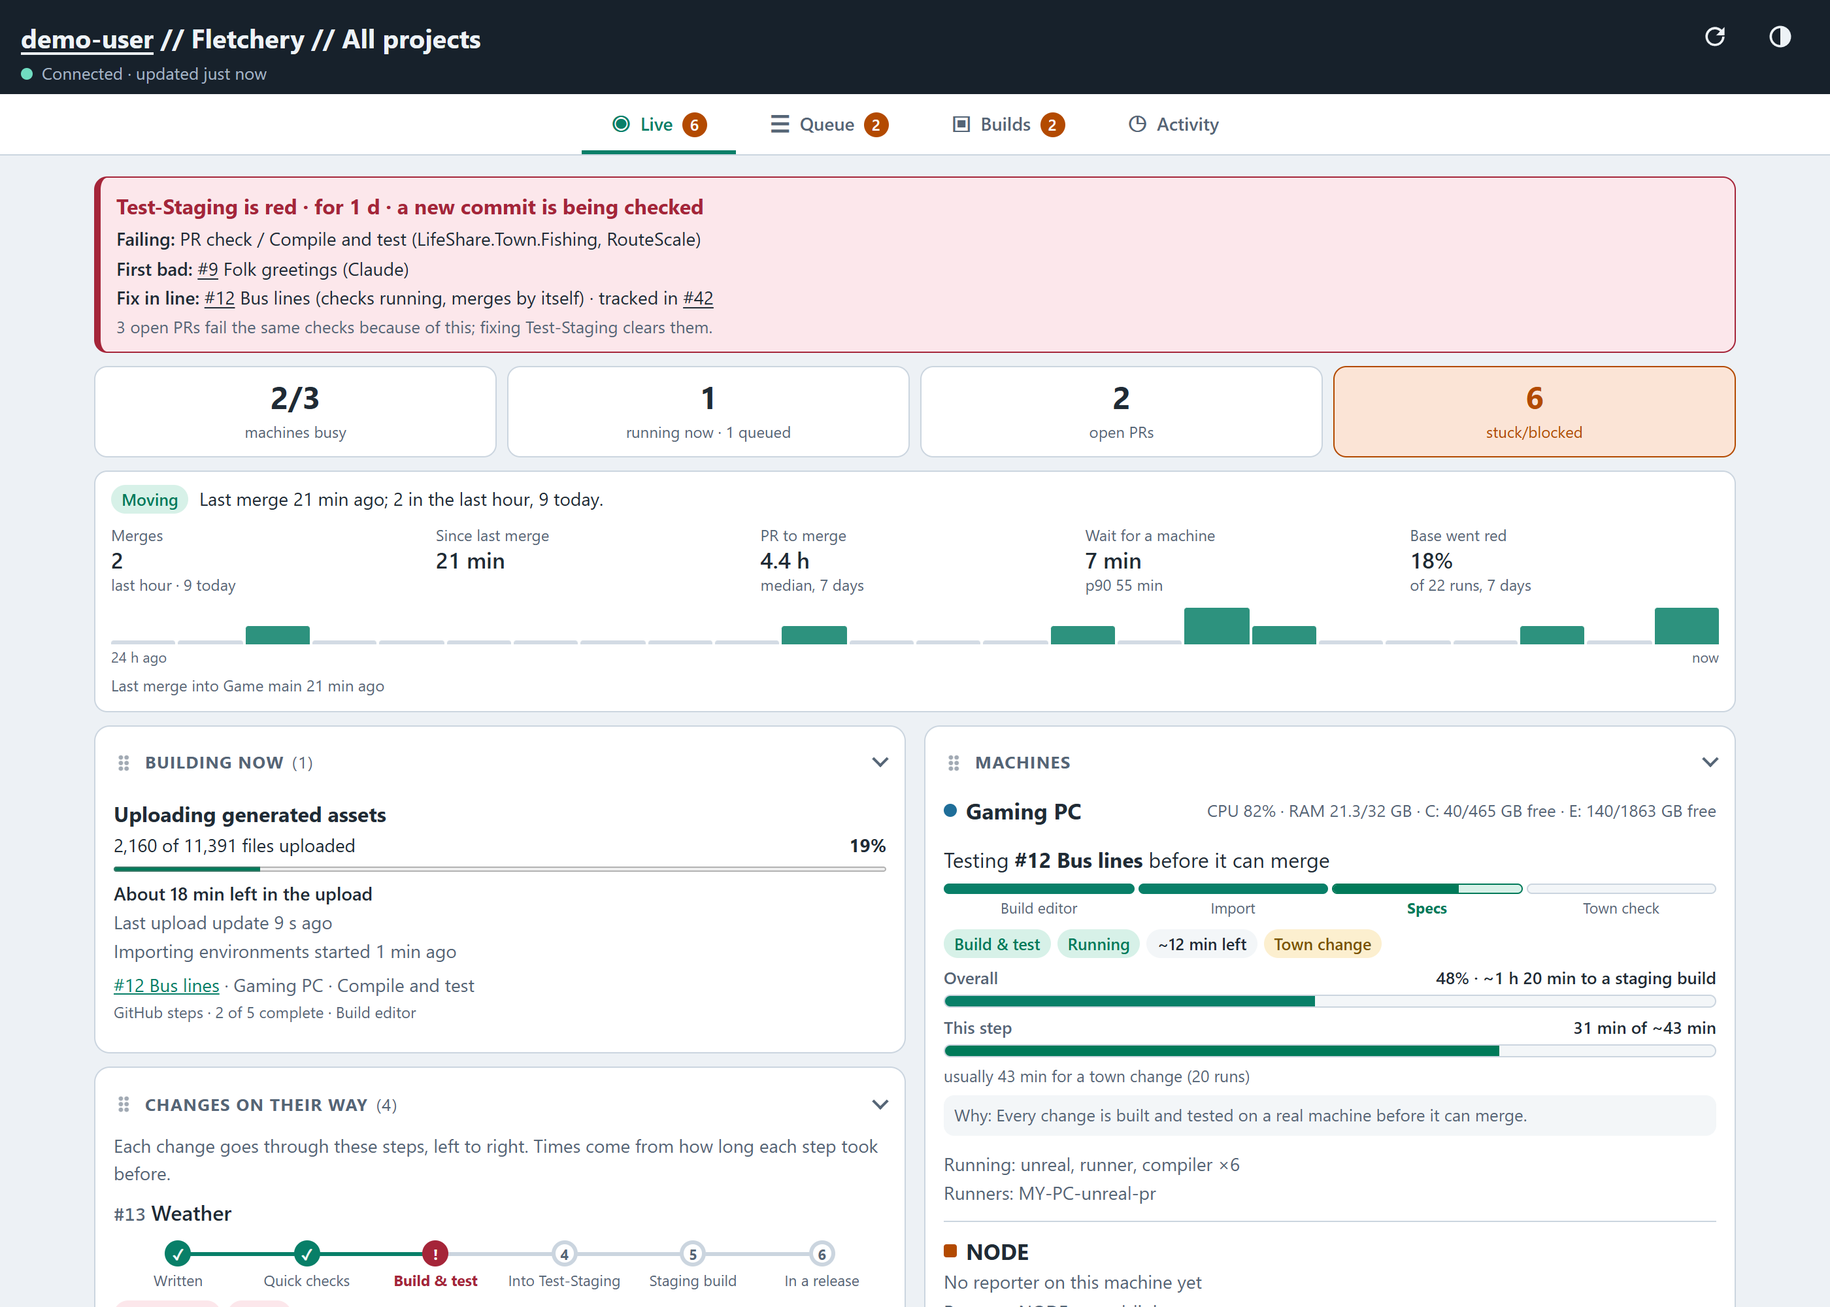
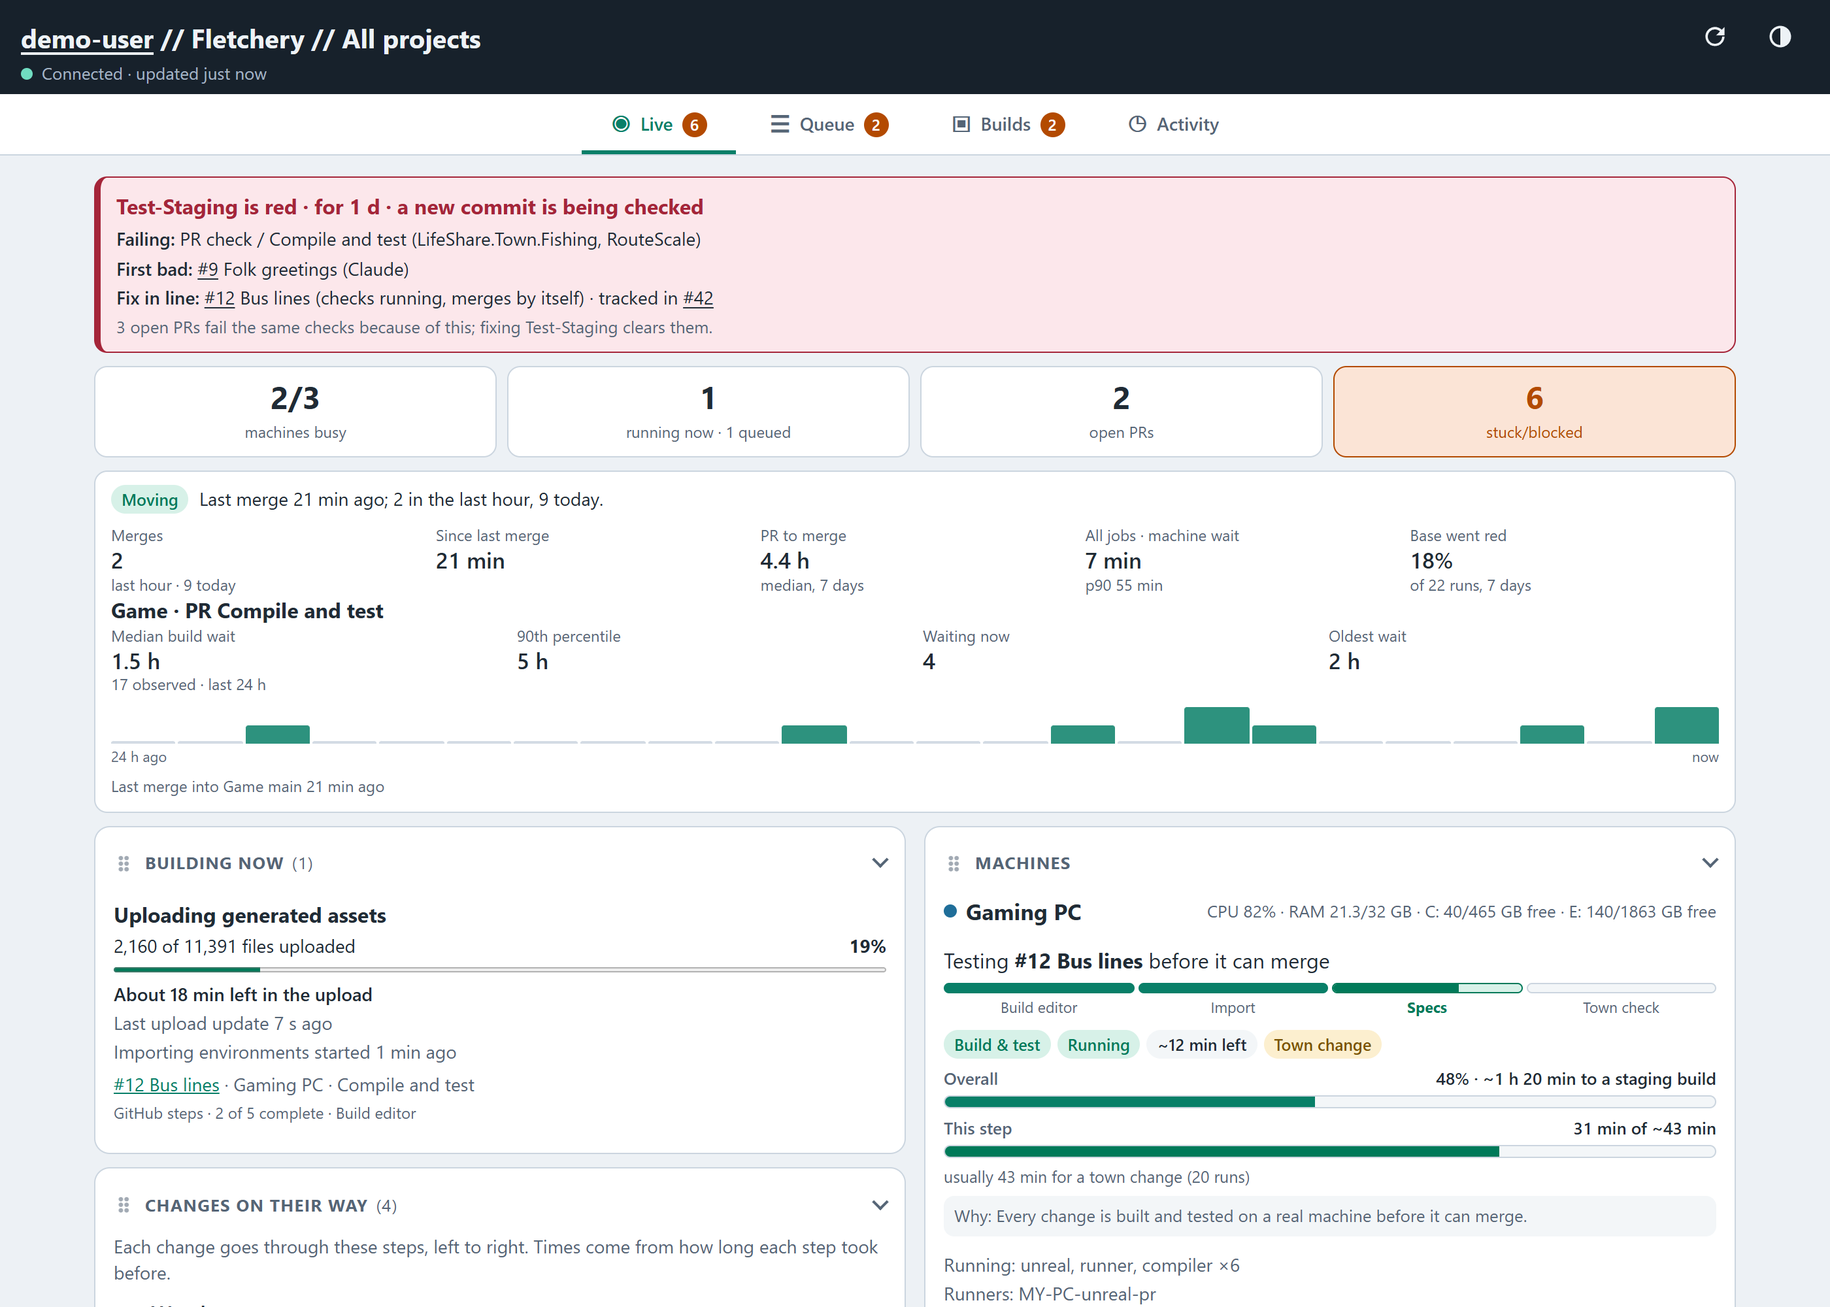
Show actual PR compile waits and the oldest queued build in Flow

diff --git a/ui/portal/live.js b/ui/portal/live.js
@@ -132,8 +132,15 @@
         num('Merges', String(f.merges_hour || 0), 'last hour · ' + (f.merges_day || 0) + ' today'),
         num('Since last merge', dur(f.since_merge)),
         num('PR to merge', dur(f.lead_p50), 'median, 7 days'),
-        num('Wait for a machine', dur(f.wait_p50), f.wait_p90 != null ? 'p90 ' + dur(f.wait_p90) : 'today'),
+        num('All jobs · machine wait', dur(f.wait_p50), f.wait_p90 != null ? 'p90 ' + dur(f.wait_p90) : 'last 24 h'),
         num('Base went red', f.red_share == null ? '–' : Math.round(100 * f.red_share) + '%', f.red_n ? 'of ' + f.red_n + ' runs, 7 days' : '')),
+      ...(f.build_queues || []).map(q => el('section', {'aria-label': q.repo + ' PR build queue'},
+        el('b', {text: q.repo.split('/').pop() + ' · PR Compile and test'}),
+        el('dl', {class: 'nums'},
+          num('Median build wait', dur(q.median), q.samples + ' observed · last 24 h'),
+          num('90th percentile', dur(q.p90)),
+          num('Waiting now', q.waiting == null ? 'Unavailable' : String(q.waiting)),
+          num('Oldest wait', q.oldest != null ? dur(q.oldest) : q.waiting === 0 ? 'None' : 'Unavailable')))),
       el('div', {class: 'hours', role: 'img', 'aria-label': 'Merges per hour, last 24 hours: ' + (f.hours || []).join(', ')}, ...bars),
       el('div', {class: 'axis', 'aria-hidden': 'true'}, el('span', {text: '24 h ago'}), el('span', {text: 'now'})),
       lastBits.length ? el('p', {class: 'bases', text: 'Last merge into ' + lastBits.join(' · ')}) : null);

diff --git a/ui/portal/sw.js b/ui/portal/sw.js
@@ -2,7 +2,7 @@
 // saved on the phone (Tailscale still connecting, PC asleep), and shows notifications. Network first since 2026-11-18:
 // cache first kept phones on an old page for several opens after an update. Status is never saved here:
 // the page asks the PC for it after it has opened.
-const CACHE = 'fletchery-portal-v34';
+const CACHE = 'fletchery-portal-v35';
 const NET_MS = 4000;
 const SHELL = ['/', '/portal.css', '/kit.js', '/portal.js', '/live.js', '/manifest.webmanifest', '/icon-180.png', '/icon-192.png', '/icon-512.png'];
 

diff --git a/fletchery/devwatch.py b/fletchery/devwatch.py
@@ -478,6 +478,7 @@ class DevWatch:
         self.runner_note = ""
         self.runs: dict[str, list] = {}             # repo -> recent runs
         self.jobs: dict[int, list] = {}             # run id -> jobs
+        self.pr_build_queues = {}                   # repository -> queued PR compile jobs from a complete live read
         self.prs: dict[str, list] = {}              # repo -> open PRs
         self.checks: dict[tuple, list] = {}         # (repo, sha) -> check runs
         self.pushes: dict[str, list] = {}           # repo -> recent pushes to agent branches (from repository events)
@@ -652,6 +653,7 @@ class DevWatch:
             if not errors or len(errors) < len(got):
                 self.last_ok = now_iso()
             self.runs, self.jobs, self.prs, self.checks, self.issues, self.pushes = runs, jobs, prs, checks, issues, pushes
+            self.pr_build_queues = {repo: g.get("pr_build_queue") for repo, g in got.items()}
             self.closed, self.merged, self.releases = closed, merged, releases
             self.bases = bases
             self.runners = {k: rows for k, (rows, _) in found.items() if rows is not None}
@@ -827,28 +829,65 @@ class DevWatch:
     def _read_repo(self, repo: str, prs: list) -> dict:
         out = {"runs": [], "jobs": {}, "prs": prs, "checks": {}, "issues": [], "pushes": [], "closed": [], "merged": [], "releases": [],
                "merged_all": []}
-        runs = (self._try(f"repos/{repo}/actions/runs?per_page=20") or {}).get("workflow_runs") or []
-        if len(runs) == 20:
+        recent = self._try(f"repos/{repo}/actions/runs?per_page=20") or {}
+        complete = isinstance(recent.get("workflow_runs"), list)
+        runs = recent.get("workflow_runs") or []
+        if len(runs) == 20 or recent.get("total_count", len(runs)) > len(runs):
             # GitHub's recent list is ordered by creation time. A long check can disappear from it while still running.
             by_id = {r["id"]: r for r in runs}
             for status in ("in_progress", "queued"):
                 page = 1
+                seen = set()
                 while True:
                     path = f"repos/{repo}/actions/runs?status={status}&per_page=100&page={page}"
-                    batch = (self._try(path) or {}).get("workflow_runs") or []
+                    response = self._try(path) or {}
+                    complete = complete and isinstance(response.get("workflow_runs"), list) and response.get("total_count", 0) <= 1000
+                    batch = response.get("workflow_runs") or []
                     by_id.update((r["id"], r) for r in batch)
-                    if len(batch) < 100:
+                    seen.update(r["id"] for r in batch)
+                    if len(batch) < 100 or page == 10:
+                        complete = complete and len(seen) >= response.get("total_count", len(seen))
                         break
                     page += 1
             runs = list(by_id.values())
         out["runs"] = runs
+        previous = {r["id"]: r for r in self.runs.get(repo, [])}
+        queued = {}
         for run in runs:
             before = self.jobs.get(run["id"])
-            if run.get("status") in ACTIVE or before is None and run.get("status") != "completed" or \
+            pr_build = run.get("event") == "pull_request" and run.get("name") == storemod.PR_WORKFLOW
+            old = previous.get(run["id"], {})
+            newly_finished = pr_build and run.get("conclusion") in ("success", "failure") and (
+                before is None or old.get("status") != "completed" or old.get("run_attempt") != run.get("run_attempt"))
+            if newly_finished or run.get("status") in ACTIVE or before is None and run.get("status") != "completed" or \
                     before and any(j.get("status") in ACTIVE for j in before):
-                out["jobs"][run["id"]] = (self._try(f"repos/{repo}/actions/runs/{run['id']}/jobs?per_page=30") or {}).get("jobs") or []
+                path = f"repos/{repo}/actions/runs/{run['id']}/jobs?per_page=30"
+                response = self._try(path) or {}
+                jobs = list(response.get("jobs") or [])
+                if pr_build:
+                    expected = response.get("total_count", len(jobs))
+                    page = 1
+                    while len(jobs) < expected:
+                        page += 1
+                        more = (self._try(f"{path}&page={page}") or {}).get("jobs") or []
+                        if not more:
+                            break
+                        jobs.extend(more)
+                    if run.get("status") in ACTIVE:
+                        complete = complete and isinstance(response.get("jobs"), list) and len({j.get("id") for j in jobs}) >= expected
+                out["jobs"][run["id"]] = jobs
             elif before is not None:
                 out["jobs"][run["id"]] = before
+            if pr_build and run.get("status") in ACTIVE:
+                for job in out["jobs"].get(run["id"], []):
+                    if job.get("name") != storemod.PR_BUILD or job.get("status") != "queued" or job.get("runner_name"):
+                        continue
+                    if job.get("run_attempt", run.get("run_attempt", 1)) == run.get("run_attempt", 1):
+                        if not isinstance(job.get("id"), int):
+                            complete = False
+                            continue
+                        queued[job["id"]] = storemod.ts(job.get("created_at"))
+        out["pr_build_queue"] = {"times": list(queued.values()), "at": time.time()} if complete else None
         self._read_holder_times(repo, runs, out["jobs"])
         for run in runs:
             # A cancelled run in the last day: who or what cancelled it, from its job's annotations, asked once.
@@ -1454,7 +1493,9 @@ class DevWatch:
                 waiting[p["repo"]] = waiting.get(p["repo"], 0) + 1
         try:
             kept = self.flow.compute([r["full_name"] for r in self.repos], waiting, at,
-                                     projects={p["name"]: p["repos"] for p in self.projects_now() if len(p["repos"]) > 1})
+                                     projects={p["name"]: p["repos"] for p in self.projects_now() if len(p["repos"]) > 1},
+                                     build_queues={r: q for r, q in self.pr_build_queues.items()
+                                                   if q and at - q["at"] <= max(60, 2 * self.interval)})
         except Exception as e:
             self.log(f"live: flow: {type(e).__name__}: {e}")
             kept = {}

diff --git a/fletchery/store.py b/fletchery/store.py
@@ -21,7 +21,9 @@ import time
 from datetime import datetime, timezone
 from pathlib import Path
 
-SCHEMA = 2
+SCHEMA = 3
+PR_WORKFLOW = "PR check"
+PR_BUILD = "PR check / Compile and test"
 KEEP_DAYS = 90
 
 # GitHub conclusion -> OpenTelemetry cicd.pipeline.result
@@ -92,6 +94,12 @@ class Store:
             cols = {r[1] for r in self.db.execute("PRAGMA table_info(merges)")}
             if "sha" not in cols:      # schema 1 -> 2: the merge commit, to place a merge on its base branch
                 self.db.execute("ALTER TABLE merges ADD COLUMN sha TEXT")
+            if "pr_build_created" not in {r[1] for r in self.db.execute("PRAGMA table_info(jobs)")}:
+                self.db.execute("ALTER TABLE jobs ADD COLUMN pr_build_created REAL")
+                # Older rows substituted the run creation time if the job omitted its own. Recover only unambiguous times.
+                self.db.execute("""UPDATE jobs SET pr_build_created=created WHERE name=? AND workflow=?
+                    AND EXISTS (SELECT 1 FROM runs r WHERE r.repo=jobs.repo AND r.id=jobs.run
+                                AND r.event='pull_request' AND r.created<>jobs.created)""", (PR_BUILD, PR_WORKFLOW))
             self.db.execute("INSERT OR REPLACE INTO meta VALUES ('schema', ?)", (str(SCHEMA),))
             self.db.commit()
         self._pruned = 0.0
@@ -148,12 +156,14 @@ class Store:
     def jobs(self, repo: str, run: dict, jobs: list) -> None:
         """Jobs that started (queue wait = started - created) or finished."""
         created_run = ts((run or {}).get("created_at"))
-        self._write("INSERT OR REPLACE INTO jobs VALUES (?,?,?,?,?,?,?,?,?,?,?)", (
+        pr_build = (run or {}).get("event") == "pull_request" and (run or {}).get("name") == PR_WORKFLOW
+        self._write("INSERT OR REPLACE INTO jobs VALUES (?,?,?,?,?,?,?,?,?,?,?,?)", (
             (repo, int(j["id"]), int((run or {}).get("id") or j.get("run_id") or 0), str(j.get("name") or "")[:120],
              str((run or {}).get("name") or j.get("workflow_name") or "")[:120], str(j.get("runner_name") or "")[:80],
              ",".join(str(x) for x in (j.get("labels") or []) if isinstance(x, str))[:300],
              result_of(j.get("conclusion")) if j.get("status") == "completed" else "",
-             ts(j.get("created_at")) or created_run, ts(j.get("started_at")), ts(j.get("completed_at")))
+             ts(j.get("created_at")) or created_run, ts(j.get("started_at")), ts(j.get("completed_at")),
+             ts(j.get("created_at")) if pr_build and j.get("name") == PR_BUILD and j.get("conclusion") in ("success", "failure") else None)
             for j in jobs if isinstance(j, dict) and isinstance(j.get("id"), int) and j.get("started_at")
             and j.get("status") in ("in_progress", "completed")))
 

diff --git a/fletchery/flow.py b/fletchery/flow.py
@@ -12,6 +12,7 @@ Profile, under `workers.portal.live.flow` (all optional):
 Standard library only."""
 from __future__ import annotations
 
+import math
 import statistics
 import time
 
@@ -41,7 +42,8 @@ class Flow:
         except (TypeError, ValueError):
             self.slow, self.stop = 60 * SLOW_MINUTES, 3600 * STOP_HOURS
 
-    def compute(self, repos: list, waiting: dict, now: float | None = None, projects: dict | None = None) -> dict:
+    def compute(self, repos: list, waiting: dict, now: float | None = None, projects: dict | None = None,
+                build_queues: dict | None = None) -> dict:
         """{"all": {...}, "repos": {repo: {...}}, "projects": {name: {...}}}. `waiting` = {repo: open PRs on their way to
         merging (not drafts, checks not failed)}; `projects` = {name: [repos]} for projects of several repositories."""
         now = now or time.time()
@@ -50,6 +52,28 @@ class Flow:
             out["repos"][r] = self._one(r, waiting.get(r, 0), now)
         for name, rs in (projects or {}).items():
             out["projects"][name] = self._one(list(rs), sum(waiting.get(r, 0) for r in rs), now)
+        # Keep build attempts separate from the all-jobs tile, even when the page spans projects.
+        samples = {}
+        for repo, wait in self.store.query("""SELECT repo, started-pr_build_created FROM jobs
+            WHERE started>? AND started<=? AND pr_build_created IS NOT NULL AND started>=pr_build_created
+              AND runner<>'' AND finished>=started AND result IN ('success','failure') ORDER BY started-pr_build_created""",
+                                           (now - 86400, now)):
+            samples.setdefault(repo, []).append(wait)
+        builds = {}
+        for repo in repos:
+            waits = samples.get(repo, [])
+            current = (build_queues or {}).get(repo)
+            if not waits and not (current and current["times"]) and repo.rsplit("/", 1)[-1].lower() != "lifeshare":
+                continue
+            times = current["times"] if current else []
+            oldest = now - min(times) if times and all(t is not None and t <= now for t in times) else None
+            builds[repo] = {"repo": repo, "samples": len(waits), "median": _median(waits),
+                            "p90": waits[math.ceil(0.9 * len(waits)) - 1] if waits else None,
+                            "waiting": len(times) if current else None, "oldest": oldest}
+            out["repos"][repo]["build_queues"] = [builds[repo]]
+        out["all"]["build_queues"] = list(builds.values())
+        for name, rs in (projects or {}).items():
+            out["projects"][name]["build_queues"] = [builds[r] for r in rs if r in builds]
         return out
 
     def _one(self, repo, waiting: int, now: float) -> dict:

diff --git a/fletchery/test_flow.py b/fletchery/test_flow.py
@@ -126,6 +126,24 @@ class FlowTest(unittest.TestCase):
         self.assertIsNone(g["lead_p50"])
         self.assertEqual(g["verdict"]["state"], "idle")
 
+    def test_build_wait_uses_real_pr_job_times_and_observed_attempts(self):
+        repo = "Acme/LifeShare"
+        run = {"id": 1, "name": "PR check", "event": "pull_request", "created_at": at(220)}
+        job = {"id": 1, "name": store.PR_BUILD, "status": "completed", "conclusion": "success",
+               "runner_name": "node", "created_at": at(110), "started_at": at(100), "completed_at": at(70)}
+        self.s.jobs(repo, run, [job, job, {**job, "id": 2, "created_at": at(190), "conclusion": "failure"},
+                                {**job, "id": 3, "created_at": None}, {**job, "id": 4, "conclusion": "skipped"},
+                                {**job, "id": 5, "name": "Cheap checks"}, {**job, "id": 6, "runner_name": ""},
+                                {**job, "id": 7, "conclusion": "cancelled"}])
+        self.s.jobs(repo, {**run, "event": "push"}, [{**job, "id": 8}])
+        def build(current):
+            return self.f.compute([repo], {}, NOW, build_queues={repo: current})["all"]["build_queues"][0]
+        b = build({"times": [NOW - 1200, NOW - 2400]})
+        self.assertEqual((b["samples"], b["median"], b["p90"], b["waiting"], b["oldest"]), (2, 3000, 5400, 2, 2400))
+        self.assertIsNone(build(None)["waiting"])
+        self.assertEqual(build({"times": []})["waiting"], 0)
+        self.assertIsNone(build({"times": [None]})["oldest"])
+
 
 if __name__ == "__main__":
     unittest.main()

diff --git a/fletchery/test_devwatch.py b/fletchery/test_devwatch.py
@@ -119,6 +119,21 @@ class Feed(unittest.TestCase):
         self.assertEqual(s["building"][0]["steps_done"], 1)
         self.assertEqual(s["building"][0]["step"], "Build editor")
 
+    def test_build_queue_uses_current_attempt_and_complete_job_pages(self):
+        path = f"repos/{REPO}/actions/runs/7/jobs?per_page=30"
+        run = {**world()[f"repos/{REPO}/actions/runs"]["workflow_runs"][0], "run_attempt": 2}
+        job = {"name": devwatch.storemod.PR_BUILD, "status": "queued", "created_at": ago(45), "run_attempt": 2}
+        responses = {path + "&page=2": {"jobs": [{**job, "id": 99}]},
+                     path: {"total_count": 31, "jobs": [{**job, "id": i, "run_attempt": 1} for i in range(30)]},
+                     f"repos/{REPO}/actions/runs?per_page=20": {"workflow_runs": [run]}}
+        w = self.watch_first(responses)
+        row = w.snapshot()["flow"]["all"]["build_queues"][0]
+        self.assertEqual(row["waiting"], 1)
+        self.assertAlmostEqual(row["oldest"], 45 * 60, delta=3)
+        w.gh.answers[path + "&page=2"] = devwatch.GitHubError(403, "forbidden")
+        w.poll()
+        self.assertIsNone(w.pr_build_queues[REPO])
+
     def test_inner_phase_is_for_the_current_run_attempt_and_machine(self):
         run = world()[f"repos/{REPO}/actions/runs"]["workflow_runs"][0]
         job = {"id": 80, "name": "Compile and test", "runner_name": "ALEX-PC-unreal-pr", "status": "in_progress",

diff --git a/docs/PORTAL.md b/docs/PORTAL.md
@@ -173,6 +173,14 @@ and remove it at exit. The dashboard matches it to the current machine, run, att
 For a check that predates phase reporting, the Gaming PC can identify the latest tool output in the reserved
 checkout. Its timestamp remains visible during quiet periods so you can see how recently the job produced evidence.
 The GitHub step count describes the outer workflow. Several imports, builds and tests can happen within one step.
+
+On **Live → Flow**, the **PR Compile and test** row gives each repository's build queue separately. Median and
+90th percentile use observed PR check job attempts that started within the last 24 hours, received a runner and
+finished with success or failure. Each wait runs from the compile job's creation to its start. A retry has its own
+job ID and wait. The sample count shows how many attempts supplied both timestamps. **Waiting now** counts queued
+compile jobs on current PR run attempts. **Oldest wait** uses the earliest of their creation times. An unavailable
+or stale GitHub queue read shows **Unavailable**. This row also appears in **All projects**.
+
 For Git LFS uploads that report completed batches, the card shows the uploaded and total file counts.
 Its upload estimate uses the rate of recent completed batches. During a quiet period the last count stays visible
 with its observation time, and the estimate expires.

diff --git a/README.md b/README.md
@@ -15,6 +15,7 @@ The header shows your GitHub sign-in and selected project. Click the sign-in to 
 The open PR total follows the project selection. If GitHub times out, Live marks the total as partial and keeps
 the last confirmed count for each affected repository. Building now shows each running check's current GitHub step,
 elapsed time and completed steps, including checks that started before the most recent workflow runs.
+Flow shows how long PR compile jobs waited for a runner, including the oldest still queued, alongside the all-jobs figure.
 During Build and test it also shows the phase reported by the machine and a rough time left based on
 finished jobs that ran at least this long. Earlier runs of the same PR take precedence.
 The live check card leads with what the machine is doing. Between phase reports, the latest observed tool
